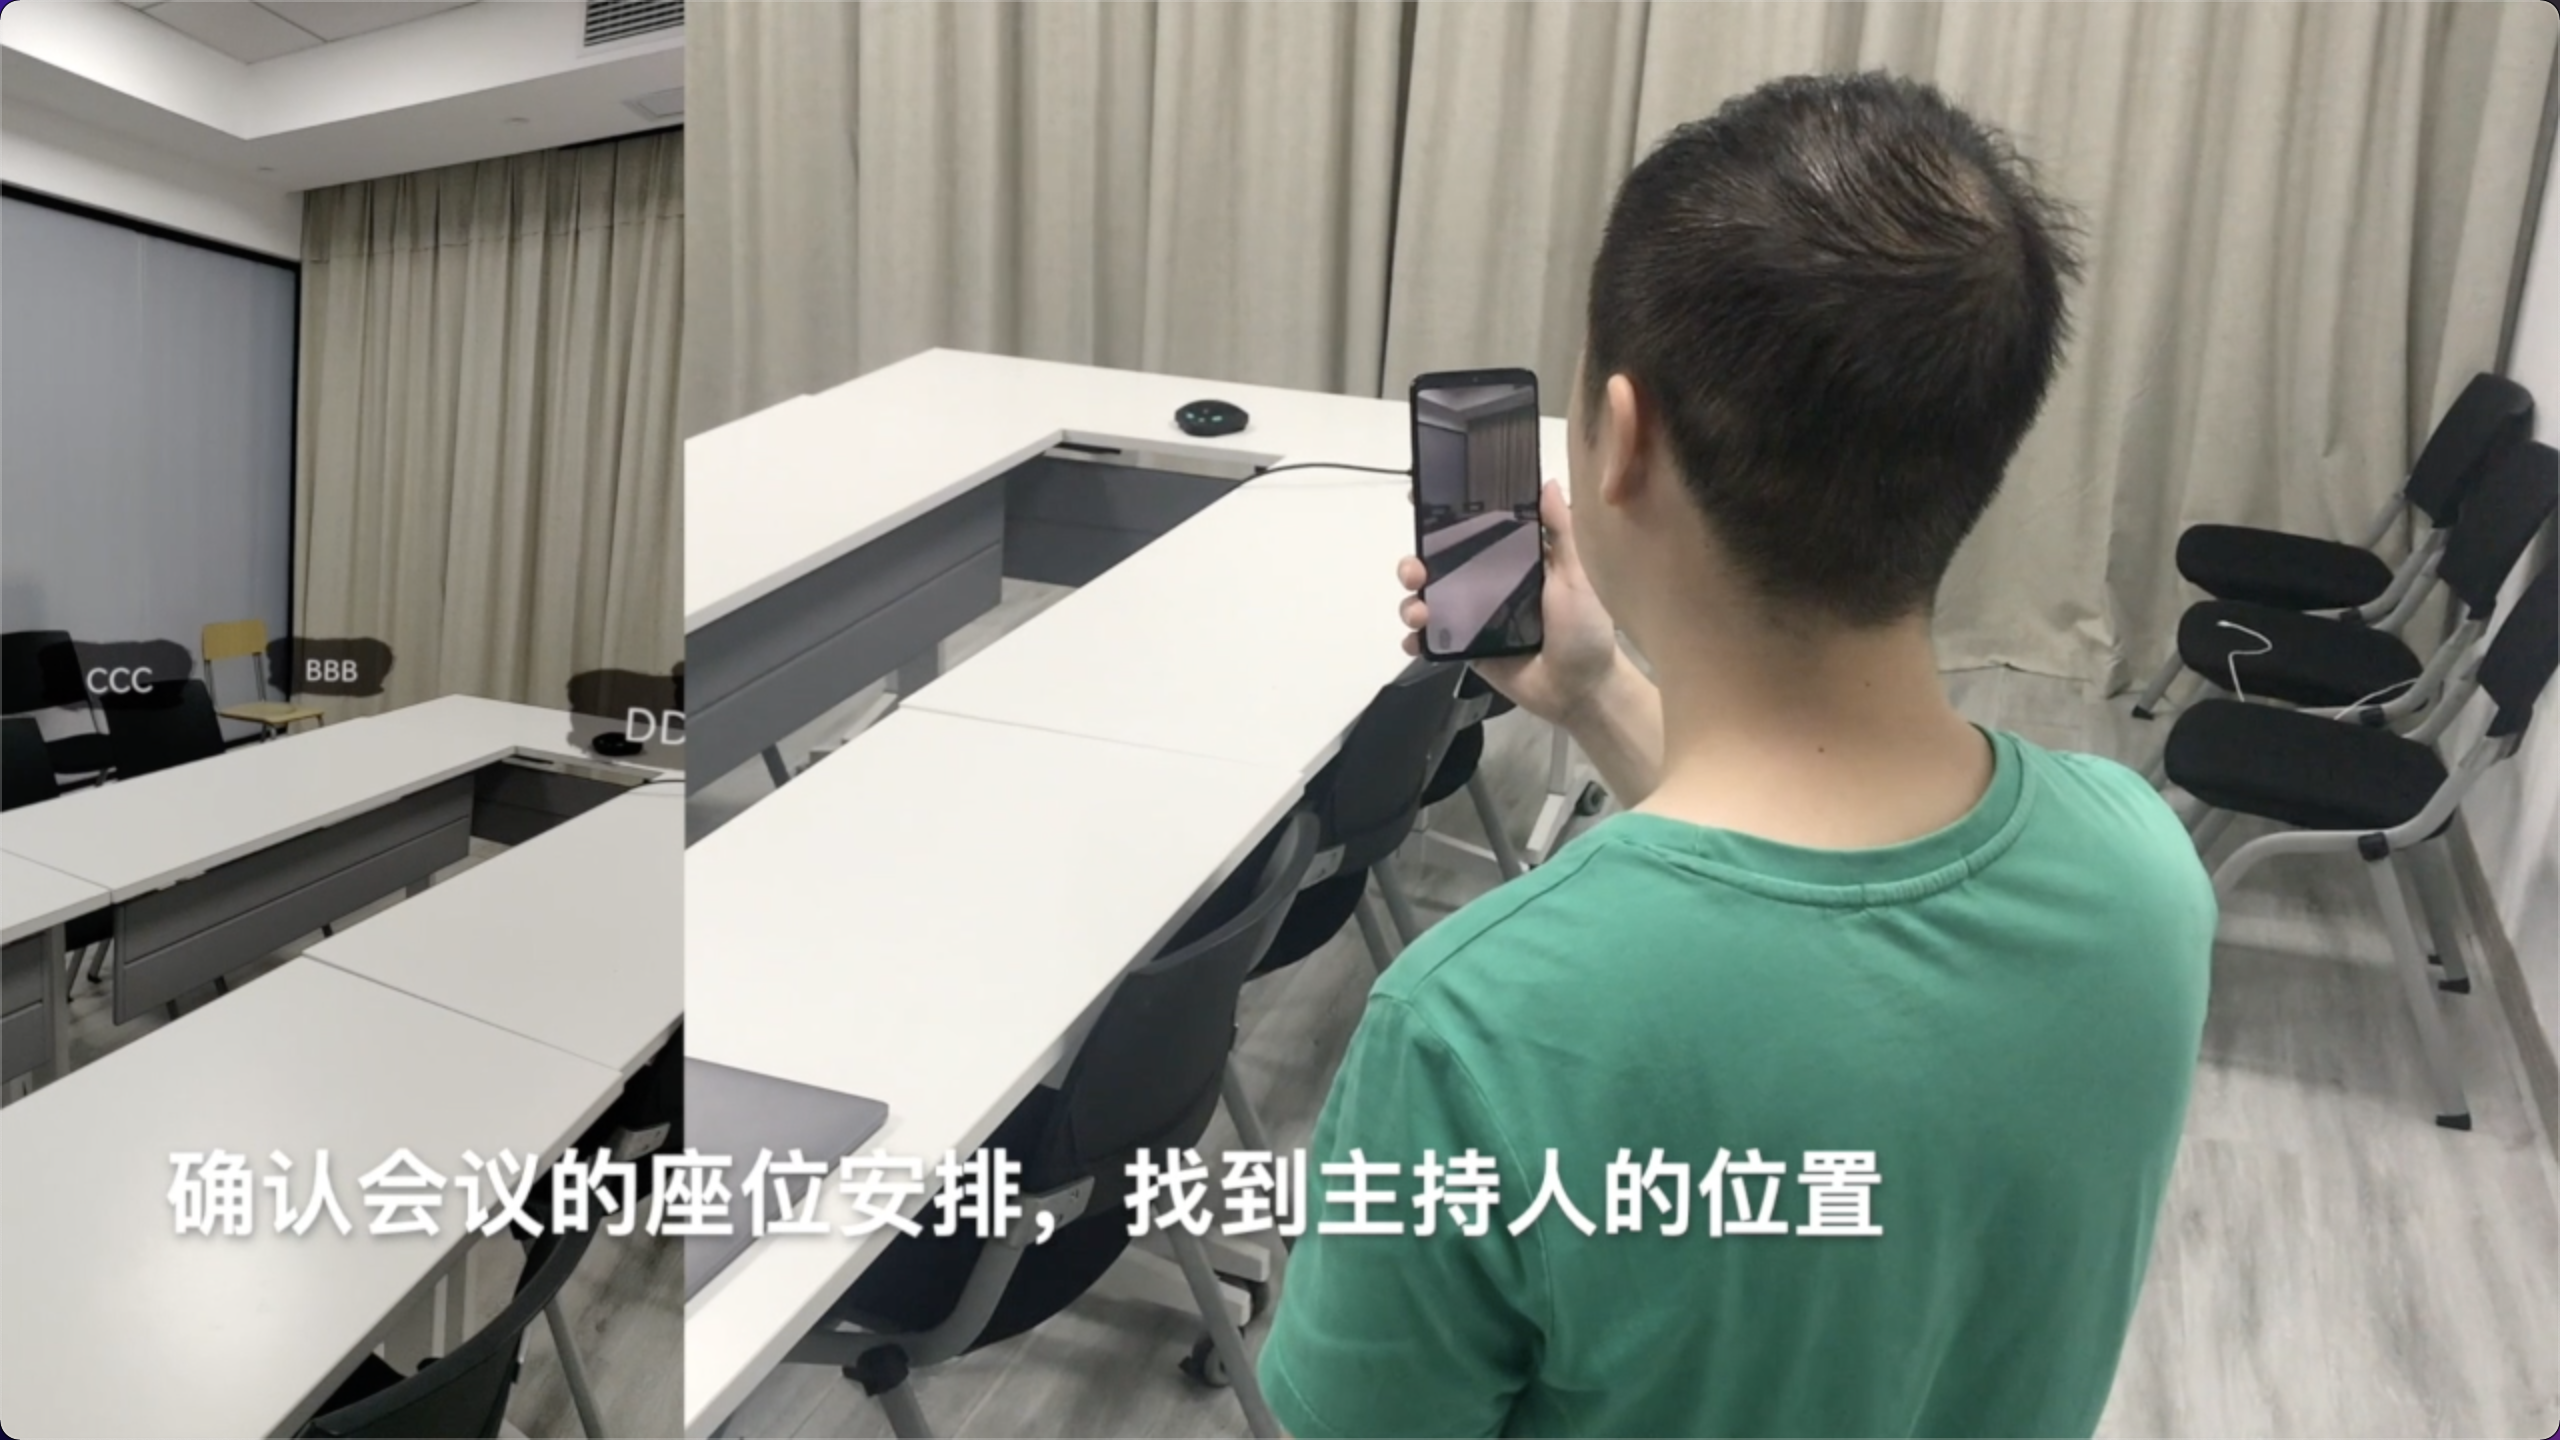
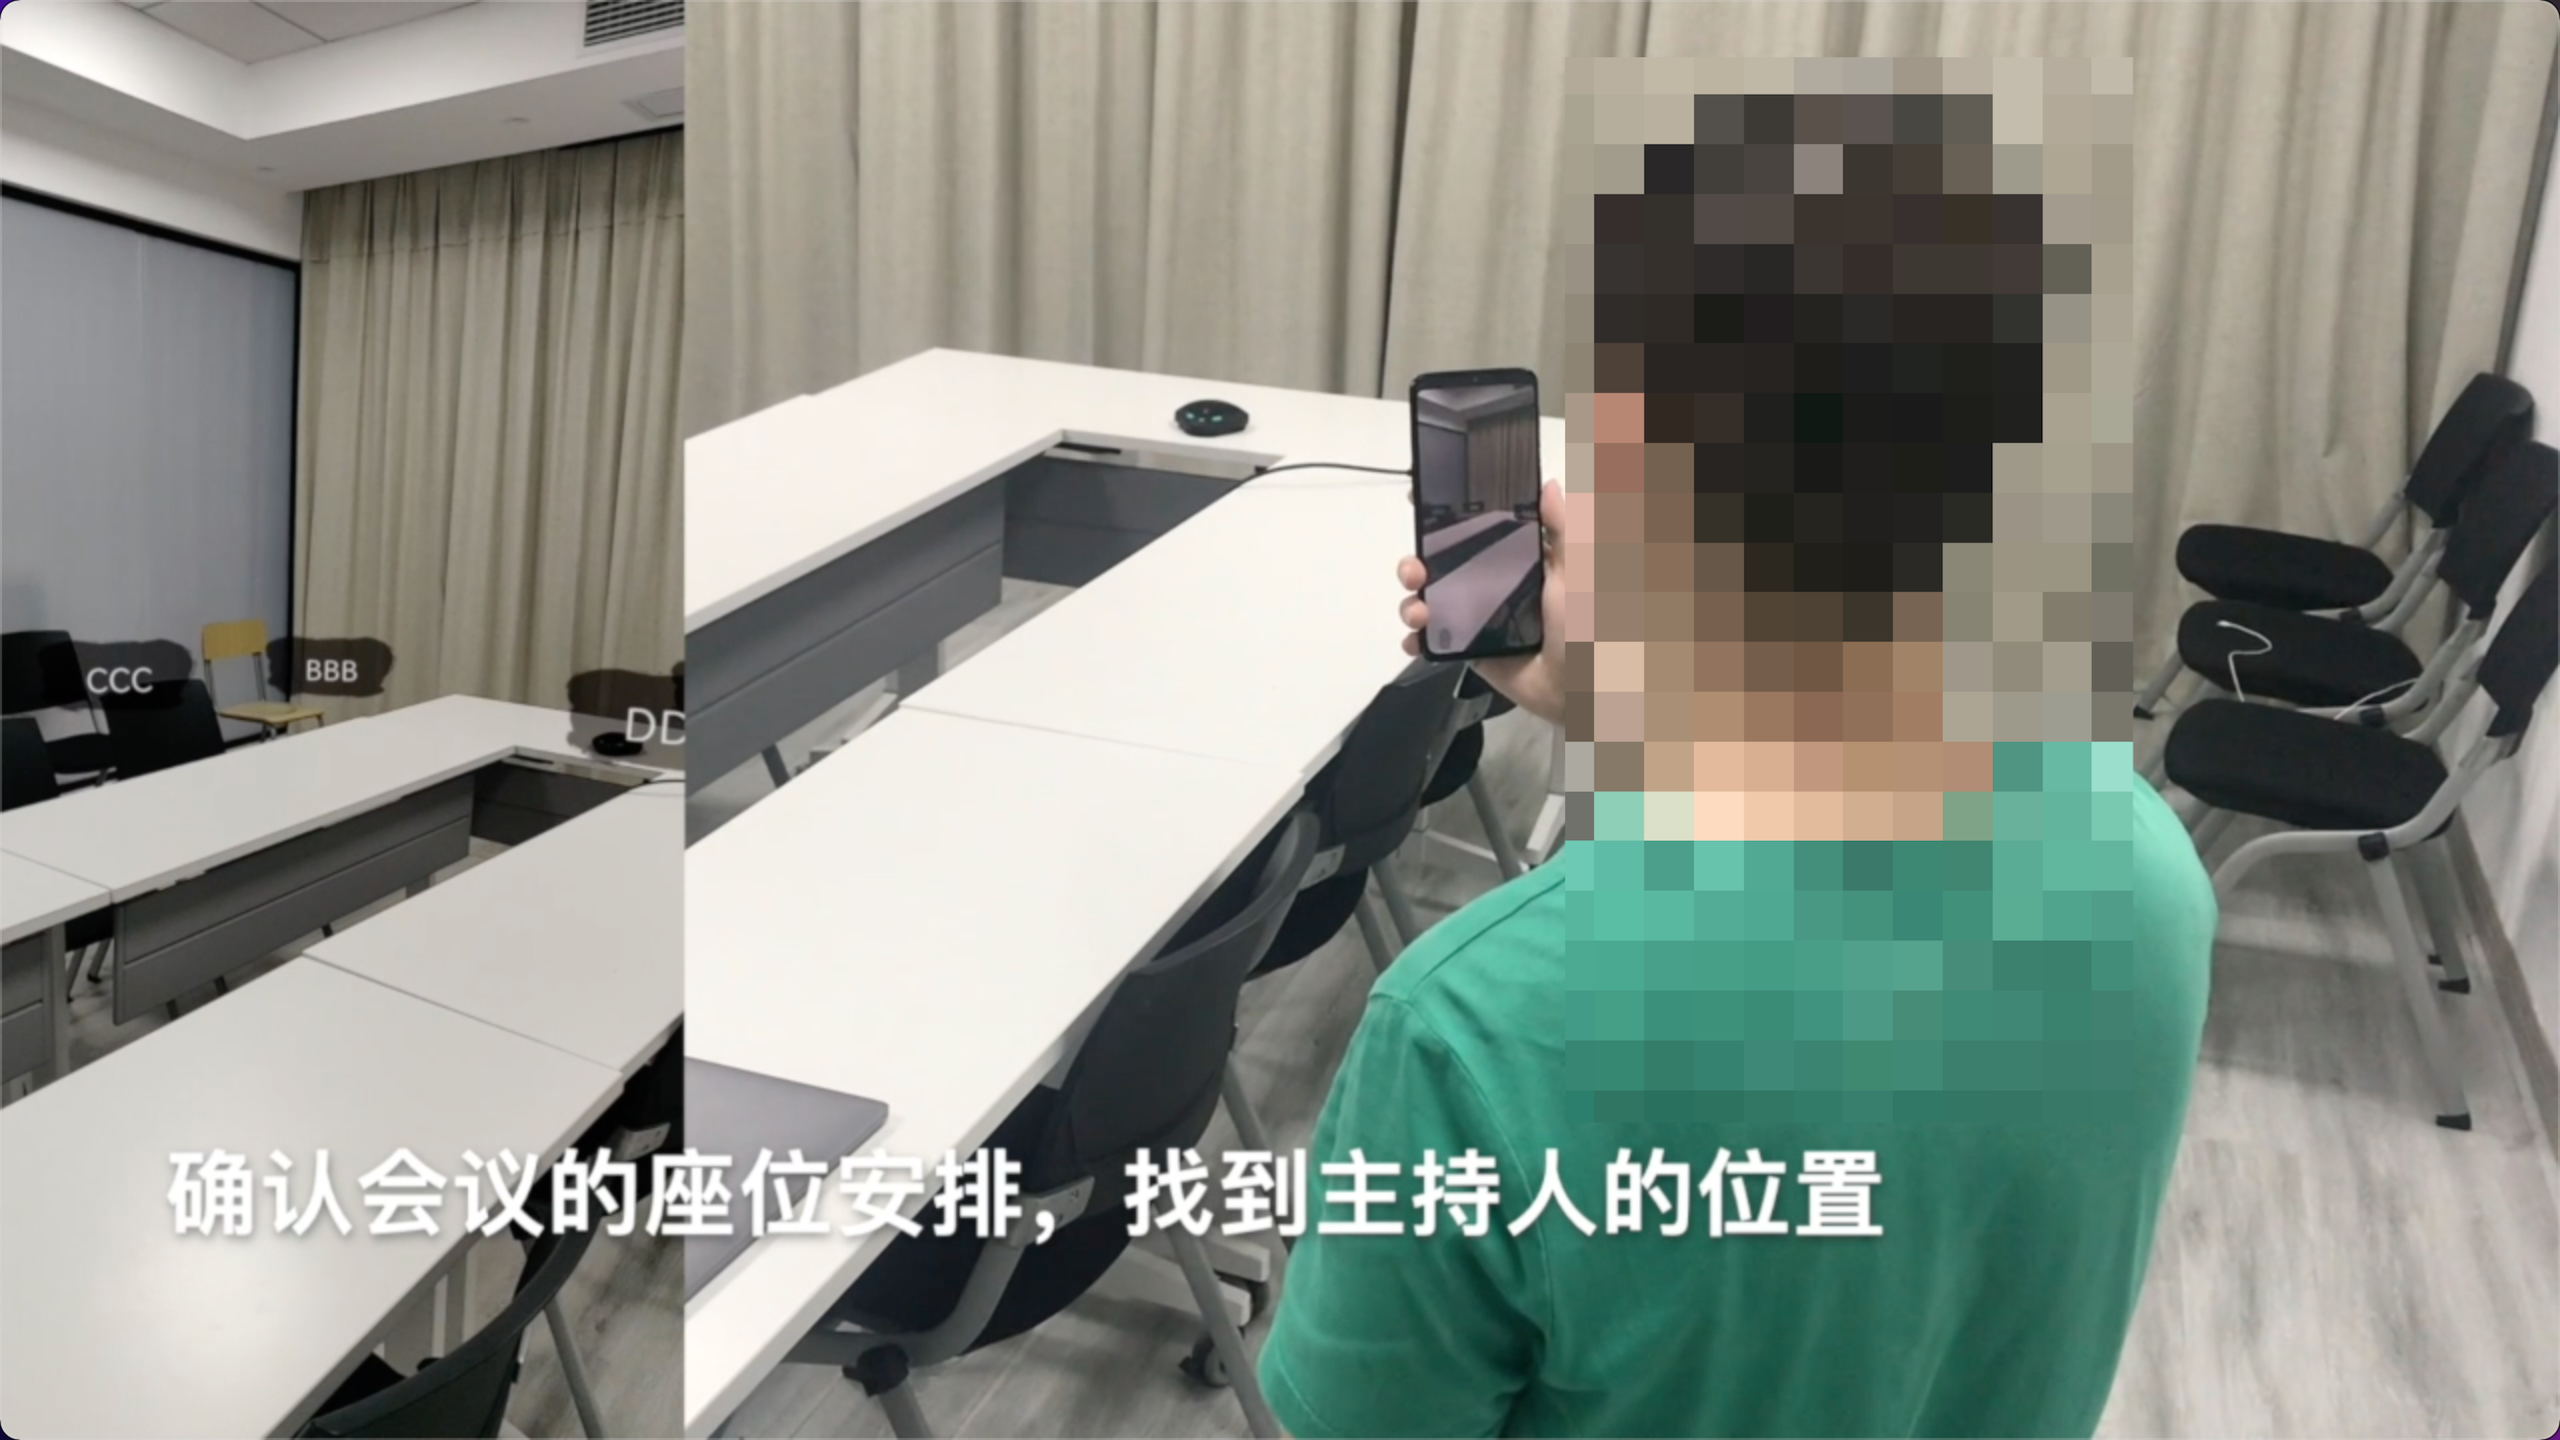
修改CV的页眉，修改模板，增加总结章内容，图片打码

diff --git a/body/graduate/content.tex b/body/graduate/content.tex
@@ -1004,12 +1004,25 @@ VSLink平均需要76毫秒左右才能完成加速推理。然而，这不是每
 
 
 
-\chapter{总结}
+\chapter{总结与展望}
 \label{chap:sum}
-在本文中，我们提出了VSLink，这是一种基于视觉SLAM定位和稀疏推理加速神经网络的方法，结合用户可自由定制的交互平台，实现了与环境对象的快速和普适交互。
-在VSLink中，我们利用视觉SLAM识别对象，并利用稀疏推理的方式加速对象检测神经网络，使总的延迟小于33ms。VSLink还为用户提供了一个平台，以实现用户定制的交互，其中自定义UI是以无代码的方式开发的。
-我们在包含多个要交互的对象并且对象可移动的环境中评估了VSLink。结果表明，该算法在30fps的视频输入下具有良好的性能，并且目标识别率达到了{\acc}。
+\section{研究总结}
+在本文中，我们提出了VSLink，这是一种基于视觉SLAM定位和稀疏推理加速神经网络的方法，结合用户可自由定制的交互平台，实现了实时视频流下与环境对象的快速和普适交互。本文的主要创新点总结如下：
 
+第一，在VSLink中，我们利用视觉SLAM定位并识别对象，并利用SLAM中得到的信息辅助神经网络进行稀疏推理，以加速对象检测神经网络，使总的延迟小于33ms。
+
+第二，VSLink还为用户提供了一个平台，以实现用户定制的交互，其中自定义UI是以无代码的方式开发的。
+
+我们在包含多个要交互的对象并且对象可移动的环境中评估了VSLink。结果表明，该算法在30fps的视频输入下具有良好的性能，并且目标识别率达到了{\acc}。
+\section{未来工作}
+基于本文已完成的工作和存在的不足，未来还可以在以下方面进行研究工作：
+\begin{itemize}
+	\item 可以将深度神经网络进一步与视觉SLAM进行结合，统一神经网络和SLAM的特征提取，共享图像特征信息，深度融合SLAM与目标识别神经网络，提高识别率和识别速度，进一步节约计算资源；
+	\item 进一步探索各类设备的抽象方式和类别，并设计针对性的DSL(Domain Specific Language)用于对设备的模型和设备交互行为进行描述，以实现简化的设备逻辑描述，方便用户定制设备的运行逻辑；
+	\item 增加虚拟传感器层，用神经网络或者用户定义的逻辑，以其他实体传感器或来自互联网的信息为数据源，推理生成用户所需的信息，形成虚拟传感器，充分利用各类数据和神经网络的推理能力增强交互的智能程度。
+	\item 探索神经网络视频事件识别在AR中的应用，以允许进一步的设备智能化，平台可以依靠摄像头所拍摄的视频流自动推断现实世界的事件，结合平台的设备信息，根据设定的逻辑完成对应的设备操作；
+	\item 探索自动化的逻辑生成，根据平台识别出的事件序列和用户操作序列，结合神经网络和知识图谱等技术自动学习各类事件和操作中潜在的运行逻辑，以推送给用户的方式或自动生效的方式提高家居/工厂/办公智能化。
+\end{itemize}
 % \chapter{参考命令}
 % \section{节标题}
 

diff --git a/body/graduate/post/cv.tex b/body/graduate/post/cv.tex
@@ -1,2 +1,24 @@
 \cleardoublepage
 \chapternonum{作者简历}
+\sectionnonum{教育经历}
+	\begin{tabular}{llll}  
+		2015.09\textasciitilde2019.06 & 本科 & 浙江大学 & 计算机科学与技术  \\ 
+		2019.09\textasciitilde2022.03 & 硕士 & 浙江大学 & 软件工程  \\ 
+	\end{tabular}  
+\sectionnonum{发表论文}
+\begin{enumerate}[label={[\arabic*]}]
+    \item Borui Li, \textbf{Hongchang Fan}, Yi Gao, Wei Dong.ThingSpire OS: a WebAssembly-based IoT operating system for cloud-edge integration.MobiSys 2021: 487-488
+    \item Wenzhao Zhang, Yuxuan Zhang, \textbf{Hongchang Fan}, Yi Gao, Wei Dong, Jinfeng Wang.TinyEdge: Enabling Rapid Edge System Customization for IoT Applications. SEC 2020: 1-13
+    \item Wenzhao Zhang, \textbf{Hongchang Fan}, Yuxuan Zhang, Yi Gao, Wei Dong.Enabling Rapid Edge System Deployment with TinyEdge. SIGCOMM Posters and Demos 2019: 104-106
+\end{enumerate}
+\sectionnonum{已授权专利}
+\begin{enumerate}[label={[\arabic*]}]
+    \item 董玮，高艺，张宇轩，张文照，\textbf{范宏昌}. 一种面向边缘计算的消息路由配置方法. 专利号：ZL 202011216229.0. 申请日期：2020 年 11 月 04 日.
+\end{enumerate}
+\sectionnonum{申请中专利}
+\begin{enumerate}[label={[\arabic*]}]
+    \item 董玮，高艺，\textbf{范宏昌}，周寒. 一种物联网设备交互界面的定制方法. 申请号：202011090471.8. 申请日期：2020年10月13日.
+    \item 董玮，高艺，周寒，\textbf{范宏昌}. 一种同步定位和地图构建中物体的快速识别方法. 申请号：202011091518.2. 申请日期：2020年10月13日.
+    \item 董玮，高艺，张宇轩，张文照，\textbf{范宏昌}. 一种面向复杂边缘计算的系统校验方法. 申请号：202011169010.X. 申请日期：2020年10月28日.
+\end{enumerate}
+

diff --git a/zjuthesis.tex b/zjuthesis.tex
@@ -26,7 +26,7 @@
     Major           = 软件工程,
     Department      = 计算机科学与技术学院,
     SubmitDate      = 2021年12月,
-    MajorFormat     = general,
+    MajorFormat     = cs,
     Degree          = graduate,   % 'undergraduate' or 'graduate'
     Type            = thesis,          % 'thesis'   or 'design'
     Period          = final,           % 'proposal' or 'final'
@@ -34,8 +34,8 @@
     Language        = chinese,         % 'chinese'  or 'english'
     % Graduate Thesis Info
     GradLevel       = master,          % 'master' or 'doctor'
-    Topic           = 研究方向,
-    ColaboratorName = 合作导师,
+    Topic           = 边缘计算,
+    ColaboratorName = ,
     % Title
     Title           = 基于视觉SLAM,
     TitleEng        = {Physical }

diff --git a/page/graduate/title-chn.tex b/page/graduate/title-chn.tex
@@ -47,11 +47,11 @@
             评阅人5： & \uline{\hfill} \\
         }
         {% For submission
-            论文评阅人1： & \uline{\hfill 姓名 \hfill} \\
-            评阅人2： & \uline{\hfill 姓名 \hfill} \\
-            评阅人3： & \uline{\hfill 姓名 \hfill} \\
-            评阅人4： & \uline{\hfill 姓名 \hfill} \\
-            评阅人5： & \uline{\hfill 姓名 \hfill} \\
+            论文评阅人1： & \uline{\hfill 隐名专家 \hfill} \\
+            评阅人2： & \uline{\hfill 隐名专家 \hfill} \\
+            评阅人3： & \uline{\hfill 隐名专家 \hfill} \\
+            评阅人4： & \uline{\hfill  \hfill} \\
+            评阅人5： & \uline{\hfill  \hfill} \\
         }
     \end{tabularx}
 \end{center}

diff --git a/config/commands.tex b/config/commands.tex
@@ -114,7 +114,7 @@
     {
         \phantomsection
         \addcontentsline{toc}{section}{#1}
-        \markboth{#1}{#1}
+        % \markboth{#1}{#1}
         \section*{#1}
     }
 }

diff --git a/page/graduate/cover.tex b/page/graduate/cover.tex
@@ -1,4 +1,4 @@
 \inputpage{cover-chn}
 \inputpage{title-chn}
-\inputpage{title-eng}
+% \inputpage{title-eng}
 \inputpage{auth-claim}

diff --git a/body/graduate/post.tex b/body/graduate/post.tex
@@ -5,4 +5,5 @@
 }
 {
     \inputbody{post/cv}
+    % \inputpage{acknowledgement}
 }
